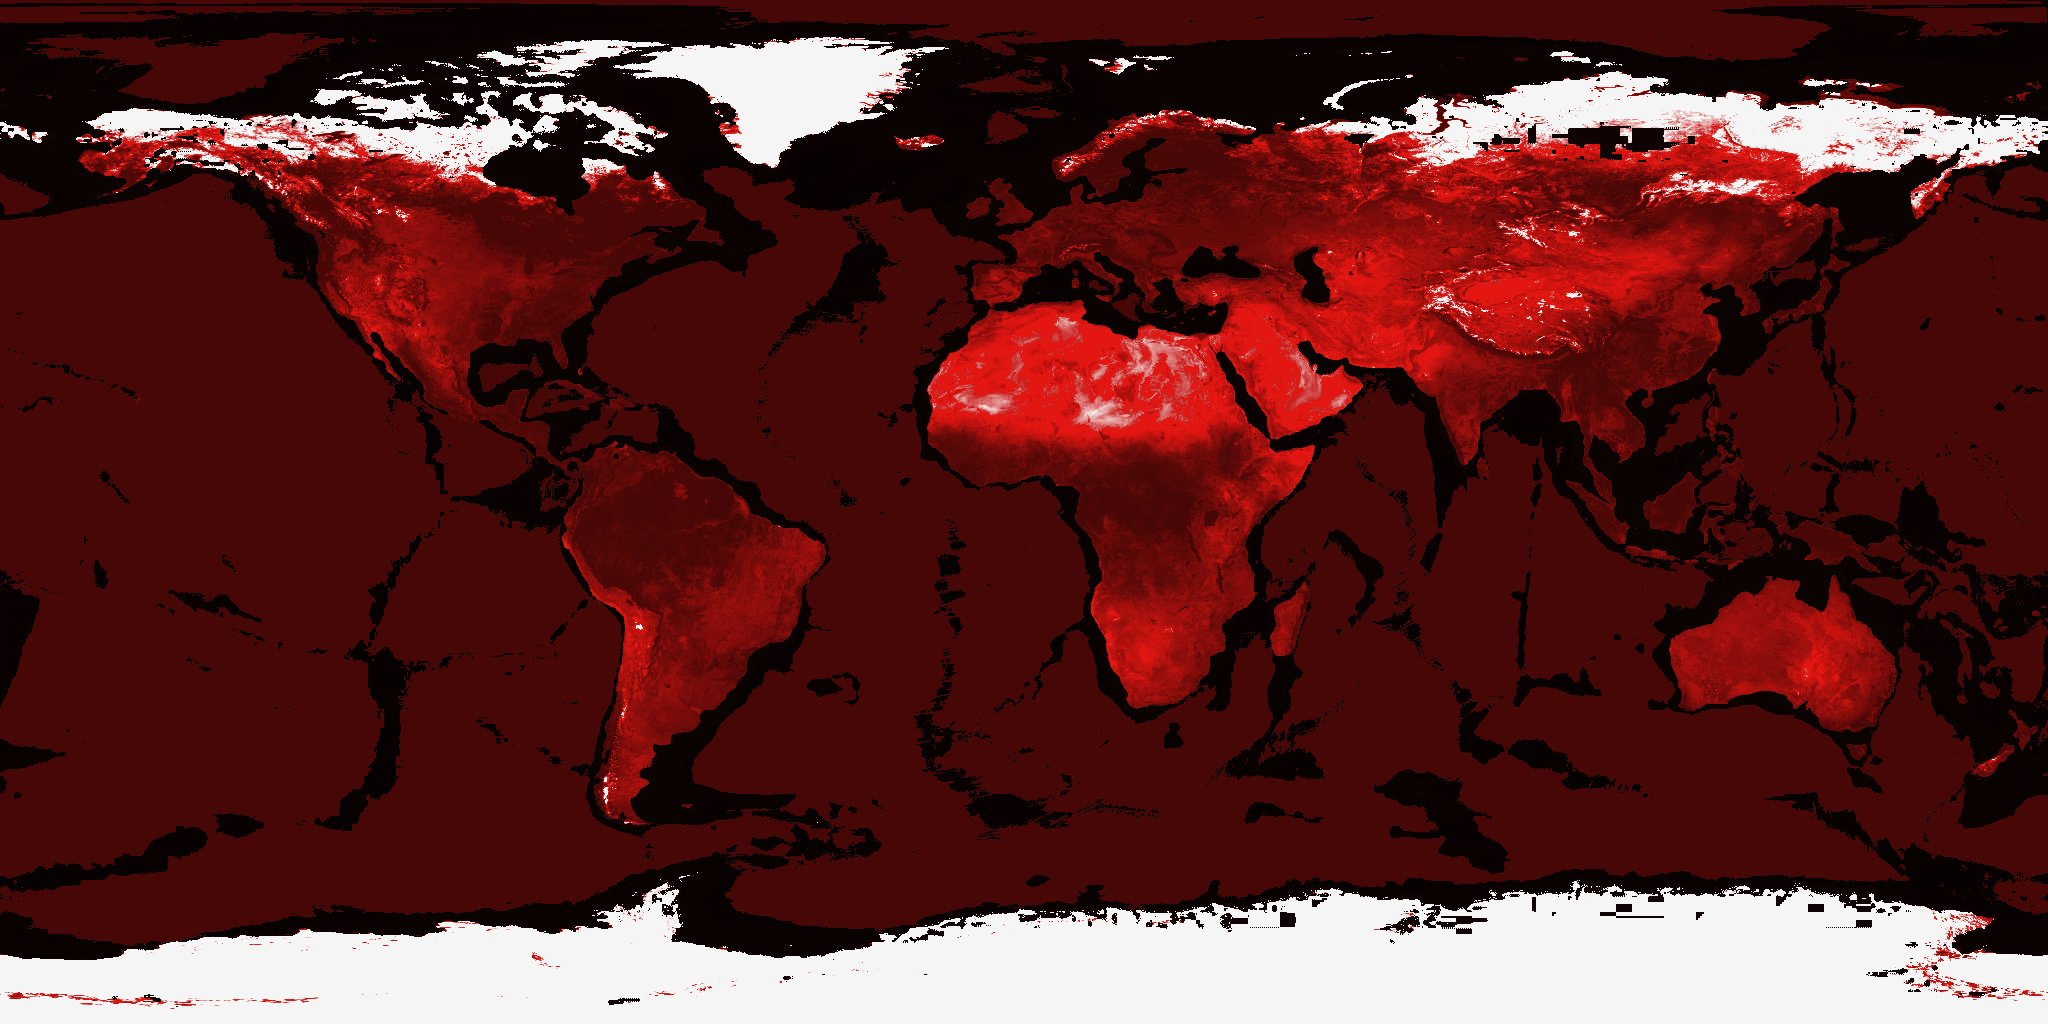
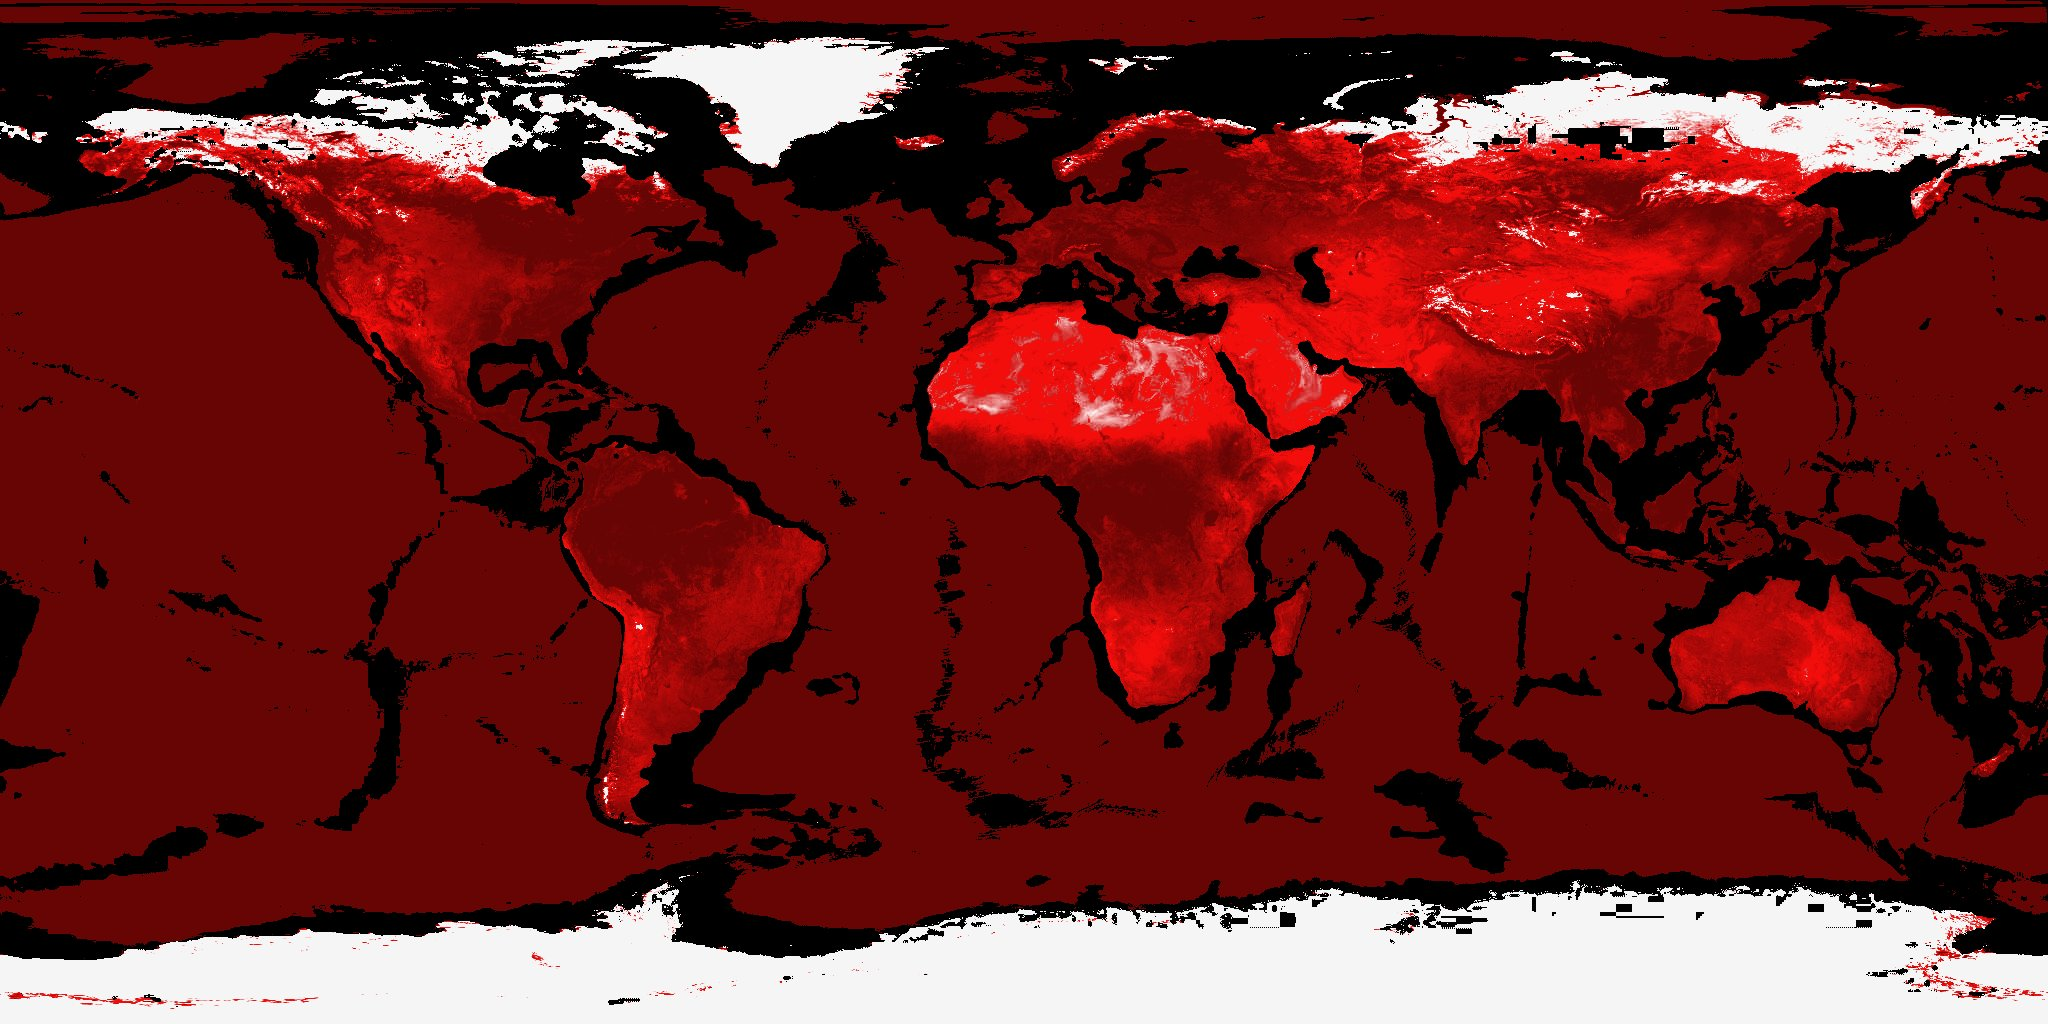
Push Earth oceans to pure black so the red land reads harder.
Keeps white accents for ice/cloud detail against the black field.

diff --git a/scripts/recolor_earth.py b/scripts/recolor_earth.py
@@ -18,16 +18,15 @@ def recolor(src: Path, dest: Path) -> None:
       lum = 0.299 * r + 0.587 * g + 0.114 * b
       ocean = b > r + 12 and b > g + 8 and b > 70
       if ocean:
-        d = max(0.0, min(1.0, lum / 120.0))
-        px[x, y] = (int(6 + 10 * d), int(1 + 2 * d), int(1 + 2 * d))
+        px[x, y] = (0, 0, 0)
       elif lum >= 200:
         px[x, y] = (245, 245, 245)
       elif lum >= 165:
         t = (lum - 165) / 35.0
-        px[x, y] = (int(200 + 45 * t), int(28 + 200 * t), int(28 + 200 * t))
+        px[x, y] = (int(210 + 45 * t), int(24 + 210 * t), int(24 + 210 * t))
       else:
-        t = max(0.22, min(1.0, lum / 145.0))
-        px[x, y] = (int(28 + 200 * t), int(4 + 18 * t), int(4 + 14 * t))
+        t = max(0.28, min(1.0, lum / 130.0))
+        px[x, y] = (int(48 + 195 * t), int(2 + 12 * t), int(2 + 10 * t))
   im.save(dest, quality=85, optimize=True)
 
 
